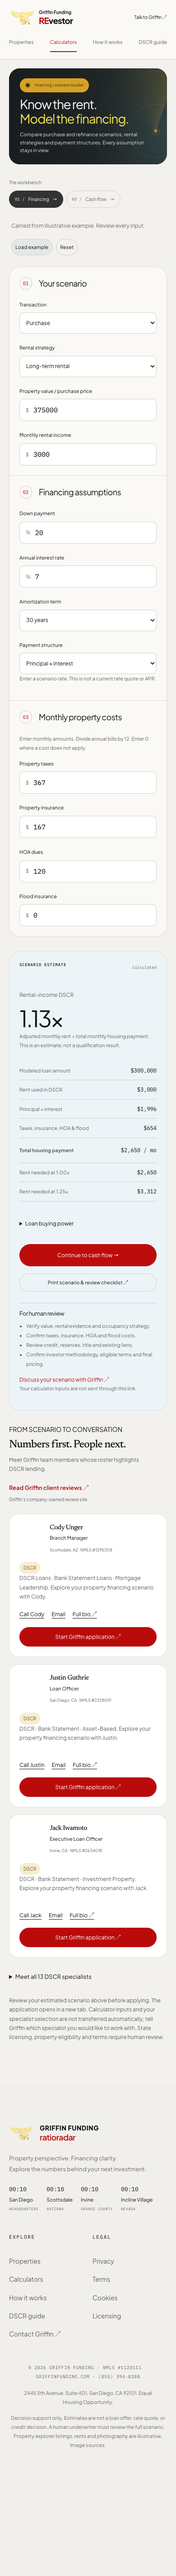
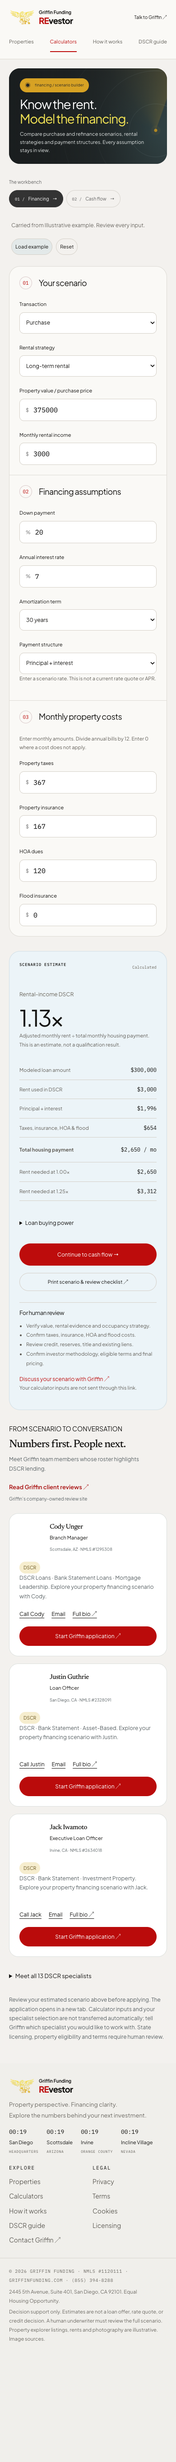
Unify footer branding and condense content above cityscape

diff --git a/src/components/SiteShell.tsx b/src/components/SiteShell.tsx
@@ -6,22 +6,26 @@ import { usePathname } from "next/navigation";
 import { useEffect, useState } from "react";
 function Brand() {
   return (
-    <Link
-      className="griffin-brand"
-      href="/"
-      aria-label="Griffin Funding RatioRadar home"
-    >
-      <Image
-        src="/brand/griffin-wings.png"
-        width={78}
-        height={49}
-        alt=""
-        priority
-      />
-      <span>
-        GRIFFIN FUNDING{" "}<small>ratioradar</small>
-      </span>
-    </Link>
+<Link
+            className="revestor-brand"
+            href="/"
+          >
+            <Image
+              src="/brand/griffin-wings.png"
+              width={2078}
+              height={1310}
+              alt=""
+              priority
+              sizes="64px"
+            />
+            <span className="revestor-wordmark">
+              <span className="revestor-parent">Griffin Funding{" "}</span>
+              <span className="revestor-name">
+                <span>RE</span>vestor
+              </span>
+            </span>
+            <span className="sr-only"> home</span>
+          </Link>
   );
 }
 const links = [
@@ -48,26 +52,7 @@ export function SiteShell({ children }: { children: React.ReactNode }) {
       </a>
       <header className="rr-header">
         <div className="wrap rr-navigation">
-          <Link
-            className="revestor-brand"
-            href="/"
-          >
-            <Image
-              src="/brand/griffin-wings.png"
-              width={2078}
-              height={1310}
-              alt=""
-              priority
-              sizes="64px"
-            />
-            <span className="revestor-wordmark">
-              <span className="revestor-parent">Griffin Funding{" "}</span>
-              <span className="revestor-name">
-                <span>RE</span>vestor
-              </span>
-            </span>
-            <span className="sr-only"> home</span>
-          </Link>
+          <Brand />
           <nav aria-label="Primary">
             {links.map(([href, label]) => (
               <Link

diff --git a/src/app/globals.css b/src/app/globals.css
@@ -2626,32 +2626,32 @@ input[type="checkbox"] {
 }
 .griffin-footer {
   background: #f0efeb;
-  padding-top: 90px;
-  margin-top: 90px;
+  padding-top: 32px;
+  margin-top: 32px;
   overflow: hidden;
 }
 .footer-grid {
   display: grid;
-  grid-template-columns: 2.5fr 1fr 1fr;
-  gap: 65px;
+  grid-template-columns: 2fr 1fr 1fr;
+  gap: 40px;
 }
 .footer-grid p {
   font-size: 13px;
   line-height: 1.8;
   color: #6c6963;
-  margin: 24px 0;
+  margin: 12px 0 16px;
 }
 .footer-grid h3 {
   font:
     11px "IBM Plex Mono",
     monospace;
   letter-spacing: 0.15em;
-  margin: 10px 0 35px;
+  margin: 4px 0 12px;
 }
-.footer-grid > div > a:not(.griffin-brand) {
+.footer-grid > div > a:not(.griffin-brand):not(.revestor-brand) {
   display: block;
   font-size: 14px;
-  margin: 18px 0;
+  margin: 10px 0;
   color: #625f59;
   text-decoration: none;
 }
@@ -2679,11 +2679,13 @@ input[type="checkbox"] {
   letter-spacing: 0.08em;
 }
 .footer-fine {
-  text-align: center;
-  margin-top: 75px;
-  max-width: 1000px;
+  text-align: left;
+  margin-top: 22px;
+  padding-top: 14px;
+  border-top: 1px solid #d8d6d0;
 }
 .footer-fine p {
+  margin: 5px 0;
   font-size: 11px;
   line-height: 1.8;
   color: #6c6963;
@@ -2702,7 +2704,7 @@ input[type="checkbox"] {
   position: relative;
   aspect-ratio: 1672/415;
   overflow: hidden;
-  margin-top: 30px;
+  margin-top: 12px;
 }
 .footer-skyline img {
   position: absolute;
@@ -2821,13 +2823,13 @@ input[type="checkbox"] {
     grid-column: 1/-1;
   }
   .footer-grid h3 {
-    margin-top: 30px;
+    margin-top: 4px;
   }
   .office-clocks {
     gap: 18px;
   }
   .footer-fine {
-    margin-top: 35px;
+    margin-top: 18px;
   }
   .footer-skyline {
     height: 250px;

diff --git a/tests/calculators.spec.ts b/tests/calculators.spec.ts
@@ -112,8 +112,8 @@ test("all new routes return real content and navigation works", async ({
     const response = await page.goto(route);
     expect(response?.status()).toBe(200);
     await expect(page.locator("main h1")).toBeVisible();
-    await expect(page.locator(".griffin-brand").first()).toContainText(
-      "GRIFFIN FUNDING",
+    await expect(page.locator(".griffin-footer .revestor-brand")).toContainText(
+      "Griffin Funding",
     );
     await expect(page.locator(".griffin-footer")).not.toContainText("Pengon");
   }

diff --git a/tests/provider-merge.spec.ts b/tests/provider-merge.spec.ts
@@ -28,7 +28,7 @@ test("REvestor header uses original griffin with live two-line type at responsiv
   for (const width of [320, 390, 768, 1440]) {
     await page.setViewportSize({ width, height: 1000 });
     await page.goto("/");
-    const brand = page.getByRole("link", {
+    const brand = page.locator("header").getByRole("link", {
       name: /Griffin Funding RE\s?vestor home/,
       exact: true,
     });
